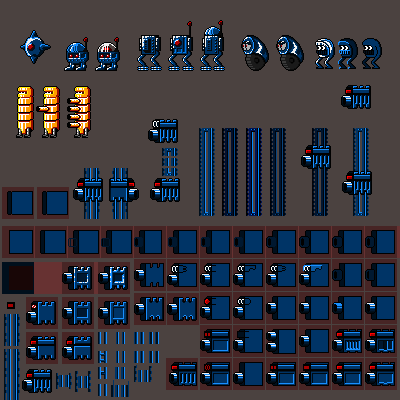
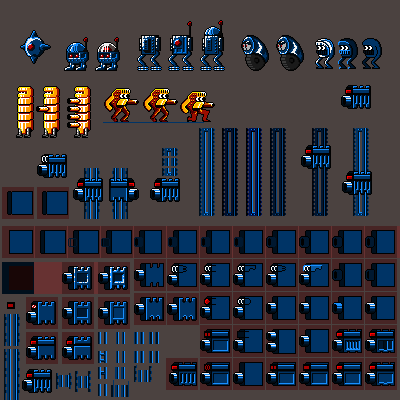
Additions to enemies.md and scraps_scifi_enemies3
+ minor changes

Changed region(s): [[0.24, 0.21, 0.54, 0.36], [0.09, 0.36, 0.18, 0.45]]

diff --git a/docs/ENEMIES.md b/docs/ENEMIES.md
@@ -105,3 +105,7 @@ explode on wall or player collision
 - on contact damage player
 - maybe: explode on floor contact
 - maybe: switch to variant with movement components on floor contact
+
+# tank
+- gravity, walker, ledge and wall turn
+- on player los: stop moving, set lower friction values, start shooting in set interval. everytime the enemy shoots he applies x knockback to himself (opposite to shooting direction)
